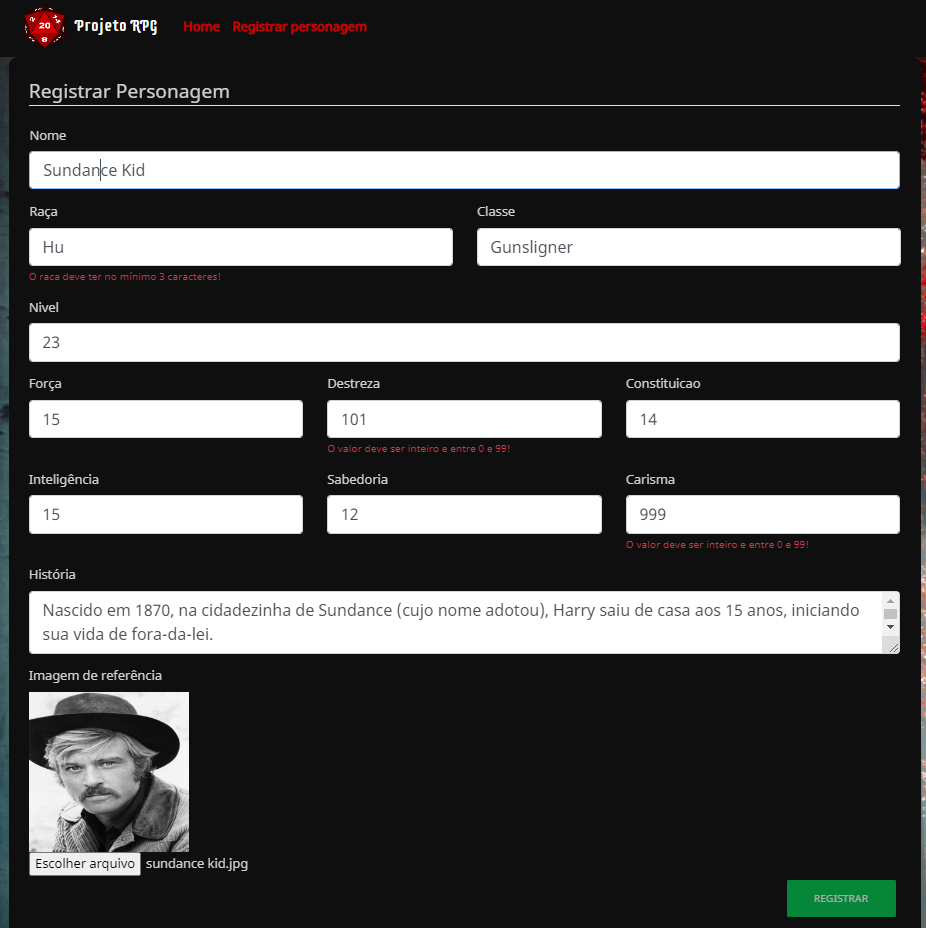
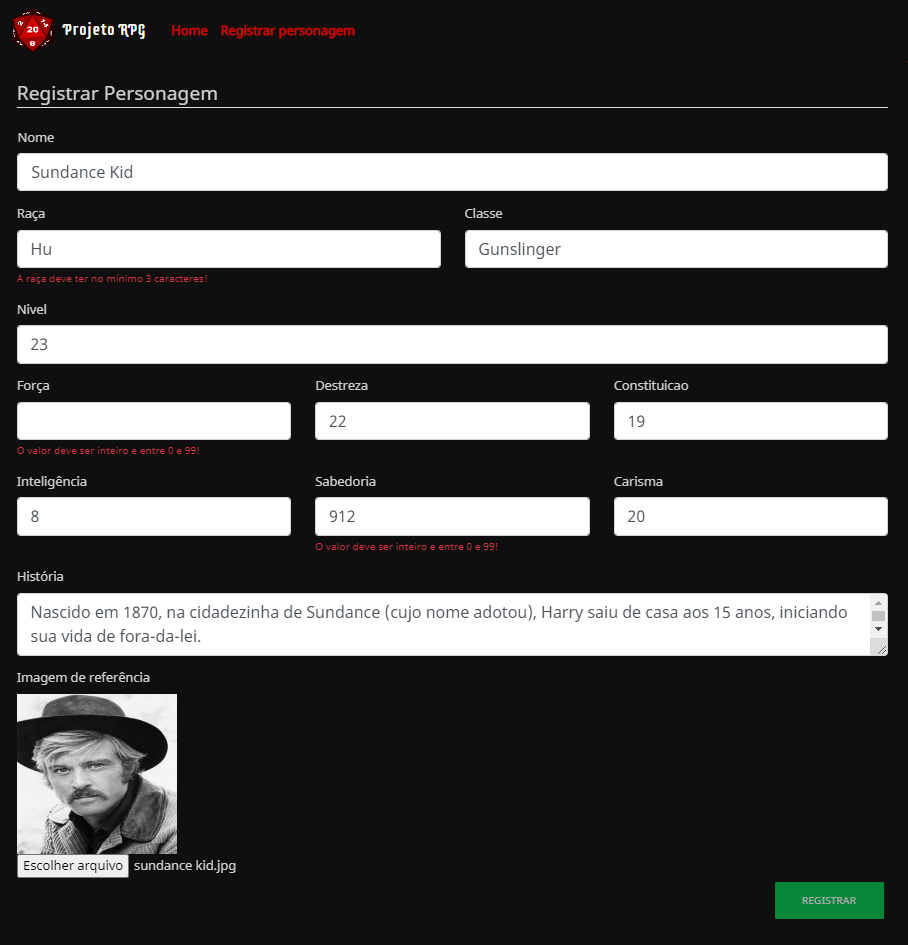
Fix de escrita

Changed region(s): [[0.0, 0.0, 1.0, 1.0]]

diff --git a/front_end/js/real_time_form.js b/front_end/js/real_time_form.js
@@ -96,7 +96,7 @@
     $("#campoRaca").on('input', function() {
         var input= $(this); 
         if (input.val().length <3){
-            msg("#inv-raca","O raça deve ter no mínimo 3 caracteres!");
+            msg("#inv-raca","A raça deve ter no mínimo 3 caracteres!");
             formValid["raca"] = false;
         }
         else {

diff --git a/front_end/templates/index.html b/front_end/templates/index.html
@@ -70,7 +70,7 @@
           </div>
         </section>
 
-        <h2 class="ml-1 text-center mb-3">Ultimos personagens registrados no site</h2>
+        <h2 class="ml-1 text-center mb-3">Últimos personagens registrados no site</h2>
         <div class="row pl-3" style="margin: 0 auto;" id="cards">
           
 
